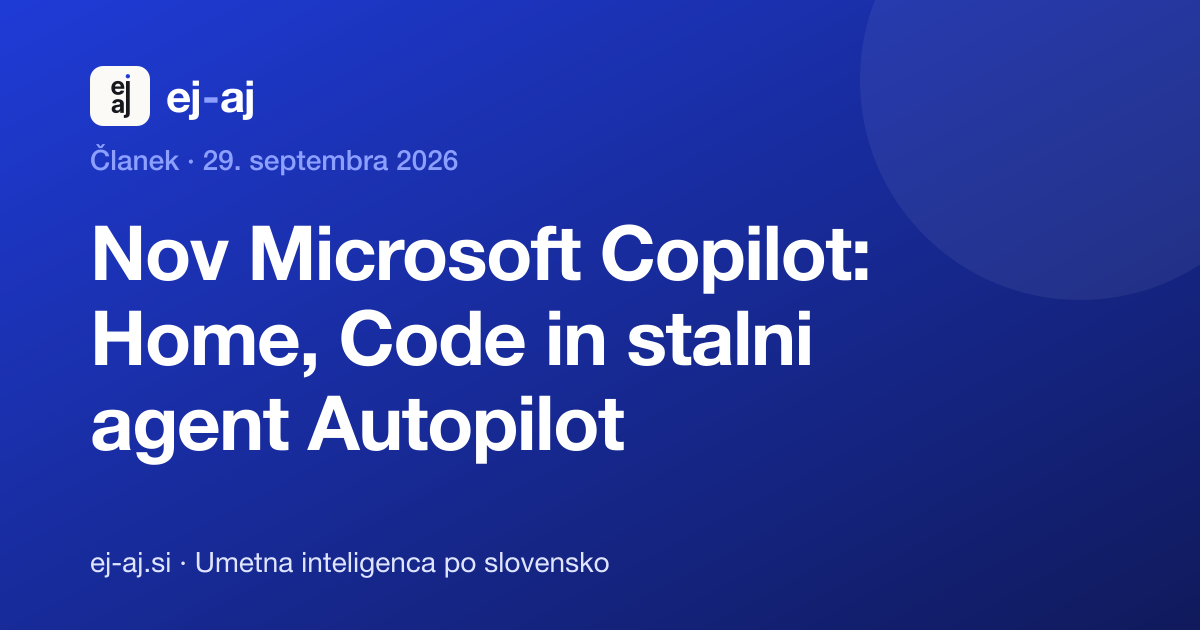
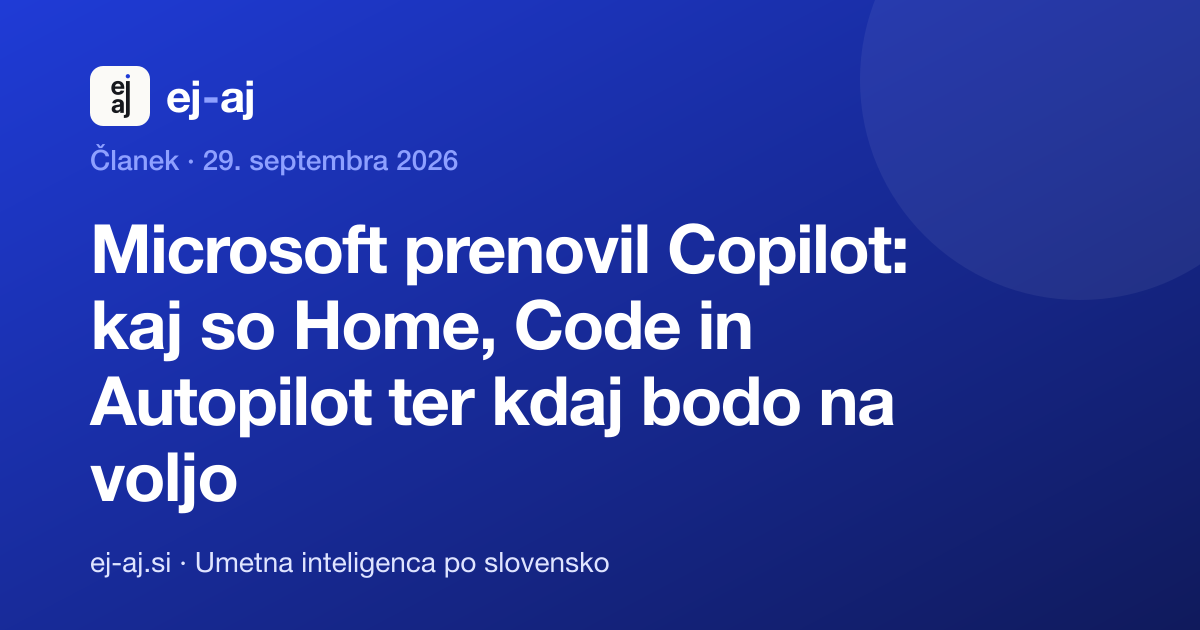
Content: clearer title and plain-language copy (microsoft-copilot-autopilot)

Changed region(s): [[0.0617, 0.3317, 0.7708, 0.8143]]

diff --git a/src/content/novice/2026-09-29-microsoft-copilot-autopilot.md b/src/content/novice/2026-09-29-microsoft-copilot-autopilot.md
@@ -1,36 +1,44 @@
 ---
-title: 'Nov Microsoft Copilot: Home, Code in stalni agent Autopilot'
-description: 'Microsoft je 25. septembra predstavil prenovljen Copilot za podjetja. Kaj so Home, Code in Autopilot, kdaj pridejo in kaj naj podjetje na Microsoft 365 pripravi že zdaj.'
+title: 'Microsoft prenovil Copilot: kaj so Home, Code in Autopilot ter kdaj bodo na voljo'
+description: 'Microsoft je 25. septembra napovedal prenovljen Copilot za podjetja s tremi deli: Home, Code in Autopilot. Kaj posamezni del dela, kdaj pride in kako se bo plačeval.'
 date: 2026-09-29
 type: clanek
 ---
 
-Microsoft je 25. septembra predstavil prenovljen Copilot za delo. Po novem ga sestavljajo trije deli: Home, Code in Autopilot. Za slovenska podjetja, ki delajo v Microsoft 365, je to napoved, ne nekaj, kar lahko vklopijo jutri: vsi trije deli bodo najprej na voljo v zgodnjem dostopu oziroma predogledu.
+Microsoft je 25. septembra napovedal prenovljen Copilot za podjetja. Po novem ima tri dele: Home, Code in Autopilot. Za zdaj gre za napoved. Vsi trije deli bodo najprej na voljo le izbranim strankam v predogledu, torej v različici pred splošno dostopnostjo.
 
-> **Na kratko:** Autopilot je agent, ki mu daste ime, vlogo in cilj, nato pa sam dela naprej, tudi ko vas ni za računalnikom. Preden ga boste lahko uporabili, se splača premisliti, katero ponavljajoče se opravilo bi mu dali in kaj bi smel narediti brez vaše potrditve.
+> **Na kratko:** Autopilot je AI agent, ki mu določite ime, vlogo in cilj, nato pa sam opravlja naloge, tudi ko niste za računalnikom. Že zdaj se splača premisliti, katero ponavljajoče se opravilo bi mu dali in kaj bi smel narediti brez vaše potrditve.
 
 ## Home: klepet, Cowork in Office na enem mestu
 
-Home je nova vstopna točka v Copilot. Združuje klepet in Cowork, torej hitre odgovore in naloge, ki jih Copilot opravi namesto vas. Word, Excel in PowerPoint so vgrajeni neposredno v Copilot, zato lahko dokument, preglednico ali predstavitev izdelate brez preklapljanja med aplikacijami.
+Home je nova začetna stran Copilota. Na enem mestu združuje klepet, v katerem dobite odgovor na vprašanje, in Cowork, kjer Copilotu predate nalogo in jo opravi sam. Word, Excel in PowerPoint so vgrajeni neposredno v Copilot. Dokument, preglednico ali predstavitev lahko tako izdelate, ne da bi odprli ločeno aplikacijo.
 
-## Code: majhne aplikacije brez programerja
+## Code: majhne aplikacije z opisom v navadnem jeziku
 
-Code je namenjen vsem, ne le programerjem. Z opisom v navadnem jeziku lahko po navedbah Microsofta izdelate majhne namenske rešitve: pripomoček, nadzorno ploščo, sledilnik ali interno aplikacijo v oblaku. Poganja ga ista tehnologija kot GitHub Copilot, rešitve pa tečejo v zaprtem okolju znotraj najemnika (tenanta) podjetja.
+Code lahko uporablja vsak, ne le programerji. Z opisom v navadnem jeziku po navedbah Microsofta izdelate majhno aplikacijo za svojo potrebo, na primer pregled podatkov na enem zaslonu, sledilnik opravil ali interno aplikacijo. Deluje na isti tehnologiji kot GitHub Copilot, Microsoftovo orodje za programerje. Aplikacije tečejo v ločenem, zaščitenem okolju znotraj Microsoft 365 okolja vašega podjetja.
 
-## Autopilot: agent kot sodelavec
+## Autopilot: agent, ki dela kot sodelavec
 
-Autopilot se je prej imenoval Scout. Microsoft ga opisuje kot digitalnega sodelavca: uporabnik mu določi ime, vlogo in cilj, agent pa ima nato svojo identiteto, spomin in delovni prostor. Živi v najemniku podjetja, v Teams, Outlooku in kanalih pa ga omenite z @, kot bi sodelavca. Spremlja lahko kanale, sledi pogovorom in opravlja ponavljajoče se naloge. Microsoftov primer je celoten postopek pregleda dobaviteljev: agent pripravi urnik in načrt, nato sam vodi pripravo, sestanke in nadaljnje korake.
+Agent je AI program, ki nalogo opravi v več korakih in pri tem sam uporablja orodja, na primer e-pošto ali koledar. Autopilot se je prej imenoval Scout.
 
-## Kdaj in koliko
+Uporabnik Autopilotu določi ime, vlogo in cilj. Agent ima nato svojo identiteto (podobno kot uporabniški račun), svoj spomin in svoj delovni prostor. V Teams, Outlooku in kanalih ga omenite z @, tako kot sodelavca. Spremlja lahko kanale, sledi pogovorom in opravlja naloge, ki se ponavljajo. Microsoftov primer je pregled dobaviteljev: agent pripravi urnik in načrt, nato sam vodi pripravo, sestanke in nadaljnje korake.
 
-Home in Code bodo po Microsoftovih besedah v prihodnjih tednih postopoma prišli v program Frontier, Microsoftov program zgodnjega dostopa. Autopilot se konec septembra razširi v zasebni predogled. Code bo naročnikom paketov Microsoft 365 Premium in Pro na voljo v predogledu kasneje letos. Microsoft ni objavil posebnih datumov ali jezikov za Evropo.
+## Kdaj bo na voljo
 
-Spremenil se je tudi način plačila. Vsakdanja raba (klepet, Office, izbira modela) ostaja v fiksni licenci na uporabnika, zahtevnejše agentno delo (Cowork, Code, Autopilot) pa se plača po porabi. Autopilot po Microsoftovih besedah deluje z dovoljenji, revizijsko sledjo in upravljanjem, porabo pa skrbniki omejijo s pravili, stroške spremljajo v Agent 365.
+Home in Code bosta v prihodnjih tednih postopoma prišla v program Frontier. To je Microsoftov program, v katerem podjetja nove funkcije preizkusijo pred splošno dostopnostjo. Autopilot bo konec septembra na voljo v zasebnem predogledu, torej le za povabljene stranke. Code bo naročnikom paketov Microsoft 365 Premium in Pro na voljo v predogledu kasneje letos. Microsoft ni objavil posebnih datumov ali jezikov za Evropo.
+
+## Kako se bo plačeval
+
+Vsakdanja raba (klepet, Office, izbira modela) ostaja v mesečni licenci na uporabnika, ki ima fiksno ceno. Zahtevnejše delo, pri katerem Copilot naloge opravlja sam (Cowork, Code in Autopilot), pa se plača po porabi. Po Microsoftovih besedah za Autopilot veljajo dovoljenja in zapis, kaj je agent naredil. Skrbniki lahko porabo omejijo s pravili, stroške pa spremljajo v skrbniškem orodju Agent 365.
 
 Viri: [Microsoft, Introducing the new Copilot with Home, Code and Autopilot](https://blogs.microsoft.com/blog/2026/09/25/introducing-the-new-copilot-with-home-code-and-autopilot/), [Microsoft Source EMEA](https://news.microsoft.com/source/emea/2026/09/new-microsoft-copilot-brings-home-code-and-autopilot-together/), [Microsoft, program Frontier](https://www.microsoft.com/en-us/microsoft-365-copilot/frontier-program)
 
-## Kaj pripraviti že zdaj
+## Kaj lahko pripravite že zdaj
 
-Stalni agent je najbolj uporaben pri opravilu, ki se ponavlja in ima jasne korake. Dobra vaja za ekipo, še preden Autopilot pride: vsak zapiše eno tako opravilo in ob njem tri stvari. Do katerih podatkov in aplikacij bi agent moral imeti dostop. Katera dejanja bi smel narediti sam in katera šele po človeški potrditvi (pošiljanje navzven, plačila, brisanje). Kdo in kako pogosto bo pregledal, kaj je agent naredil.
+Agent je najbolj uporaben pri opravilu, ki se ponavlja in ima jasne korake. Vaja za ekipo, še preden Autopilot pride: vsak zapiše eno tako opravilo in ob njem odgovori na tri vprašanja.
 
-**Kaj to pomeni za vas:** plačilo po porabi pomeni, da strošek agentov ne bo več fiksen na sedež, zato bo treba porabo spremljati. Če se odločate med Copilotom in drugimi orodji, je primerjava paketov v vodniku [Kako izbrati AI orodje za podjetje](/vodniki/kako-izbrati-ai-orodje-za-podjetje/), splošna pravila za varno rabo pa v vodniku [Varna raba AI v podjetju](/vodniki/varna-raba-ai-v-podjetju/).
+1. Do katerih podatkov in aplikacij bi agent potreboval dostop?
+2. Kaj bi smel narediti sam in kaj šele po potrditvi človeka? Potrditev je smiselna vsaj pri pošiljanju sporočil zunanjim ljudem, plačilih in brisanju.
+3. Kdo bo pregledoval, kaj je agent naredil, in kako pogosto?
+
+**Kaj to pomeni za vas:** ker se bo agentno delo plačevalo po porabi, strošek ne bo več fiksen na uporabnika in ga bo treba spremljati. Če se odločate med Copilotom in drugimi orodji, je primerjava v vodniku [Kako izbrati AI orodje za podjetje](/vodniki/kako-izbrati-ai-orodje-za-podjetje/). Splošna pravila za varno rabo so v vodniku [Varna raba AI v podjetju](/vodniki/varna-raba-ai-v-podjetju/).
